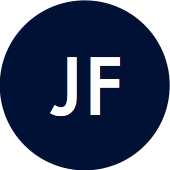
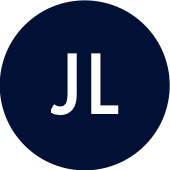
Update some copy for being a lumarie

Changed region(s): [[0.5294, 0.2941, 0.7353, 0.6765], [0.3824, 0.2941, 0.4706, 0.6176], [0.2941, 0.6176, 0.4412, 0.7059]]

diff --git a/jf_landing_page/about/index.html b/jf_landing_page/about/index.html
@@ -1,11 +1,11 @@
 <!doctype html>
 <html>
   <head>
-		
+
 	  <!-- Latest compiled and minified JavaScript -->
 	  <script src="https://ajax.googleapis.com/ajax/libs/jquery/2.1.3/jquery.min.js"></script>
 	  <script src="https://maxcdn.bootstrapcdn.com/bootstrap/3.3.2/js/bootstrap.min.js"></script>
-	  		
+
 	  <!-- Latest compiled and minified CSS -->
 	  <link rel="stylesheet" href="https://maxcdn.bootstrapcdn.com/bootstrap/3.3.2/css/bootstrap.min.css">
 
@@ -14,21 +14,21 @@
 
 
 	  <link href='http://fonts.googleapis.com/css?family=Open+Sans' rel='stylesheet' type='text/css'>
-	  
+
 	  <link rel="shortcut icon" href="../jf_icon.png"/>
-				
+
     <link href='../style.css' rel='stylesheet' type='text/css'>
-	  
+
 	  <meta name="viewport" content="width=device-width, initial-scale=1">
 
-		<title>About | Jesse Furmanek</title>	  
-		
+		<title>About | Jesse Furmanek</title>
+
   </head>
- 
+
   <body>
     <div class="header">
     </div>
-	
+
 
   <div class= "mini-header">
       <div class="container">
@@ -38,37 +38,37 @@
 
   <div class = "main">
 	<div class="container">
-      <div class="row">				
+      <div class="row">
          <div class="col-xs-4" ><p class = "pull-right" id="lil_jf"><a href="http://jessefurmanek.com"><img src="../lil_jf.png"></a></p></div>
          <div class="col-xs-4" ><p id="circle_picture"><img src="../jesse_icon.png"  class="center-block" ></p> </div>
          <div class="col-xs-4"><p class = "pull-left" id="circle_writings"><a href="http://jessefurmanek.com/blog"><img src="../writing_icon.png"  class="center-block" ></a></p></div>
       </div>
     </div>
   </div>
-  
-  
+
+
   <div class= "about-me-content">
       <div class="container">
 	  	<div class ="col-xs-2 col-md-3"></div>
 		<div class ="col-xs-8 col-md-6">
 		 	<p class ="about-me center-block">    My name is Jesse, and I am a product manager, lawyer, and an individual who enjoys programming and learning. <br> <br>Give me a shout <a href="mailto:jesse.furmanek@gmail.com">here</a> or at any of the fine establishments you see below.</p>
 		</div>
-		<div class ="col-xs-2 col-md-3"></div>	
+		<div class ="col-xs-2 col-md-3"></div>
       </div>
   </div>
-  
-  
-  <div class ="social"> 
+
+
+  <div class ="social">
 	  <div class="container">
-		  
-		  <a href="http://instagram.com/jessefurmanek"><img src="../insta_logo.png"  class="center-block" ></a>
-		  <a href = "https://twitter.com/jessefurmanek"><img src="../twitter_logo_blue.png" class="center-block"></a>
+
+		  <a href="http://instagram.com/jesselumarie"><img src="../insta_logo.png"  class="center-block" ></a>
+		  <a href = "https://twitter.com/jesselumarie"><img src="../twitter_logo_blue.png" class="center-block"></a>
 		  <a href="https://github.com/jessefurmanek"> <img src="../github_logo.png"  class="center-block"></a>
 		  <a href="https://www.flickr.com/photos/49440392@N07/"><img src="../flickr_logo.png"  class="center-block"></a>
-		  <a href="https://www.linkedin.com/in/jessefurmanek"><img src="../linkedin_logo.png"  class="center-block"></a>
+		  <a href="https://www.linkedin.com/in/jesselumarie"><img src="../linkedin_logo.png"  class="center-block"></a>
 	  </div>
    </div>
-	 
+
 	 </div>
   </div>
 

diff --git a/jf_landing_page/index.html b/jf_landing_page/index.html
@@ -10,56 +10,56 @@
 
 	  <!-- Optional theme -->
 	  <link rel="stylesheet" href="https://maxcdn.bootstrapcdn.com/bootstrap/3.3.2/css/bootstrap-theme.min.css">
-	  
+
 	  <link href='http://fonts.googleapis.com/css?family=Vollkorn' rel='stylesheet' type='text/css'>
 	  <link href='http://fonts.googleapis.com/css?family=Open+Sans' rel='stylesheet' type='text/css'>
 
 	  <meta name="viewport" content="width=device-width, initial-scale=1">
-	  
+
 	  <link rel="shortcut icon" href="jf_icon.png"/>
-	  
+
     <link href='style.css' rel='stylesheet' type='text/css'>
-	  
-	  <title>Jesse Furmanek</title>
+
+	  <title>Jesse Lumarie</title>
   </head>
- 
+
   <body>
     <div class="header">
     </div>
-	
-	
+
+
   <div class= "mini-header">
       <div class="container">
- 		 <h2>This is the website of Jesse Furmanek.</h2>
+ 		 <h2>This is the website of Jesse Lumarie.</h2>
       </div>
   </div>
 
   <div class = "main">
 	<div class="container">
-      <div class="row"> 
-         <div class="col-xs-4" ><p class = "pull-right center-block" id="circle_pro"><a href="http://jessefurmanek.com/about"><img src="about_icon.png"></a></p></div>
+      <div class="row">
+         <div class="col-xs-4" ><p class = "pull-right center-block" id="circle_pro"><a href="http://jesselumarie.com/about"><img src="about_icon.png"></a></p></div>
          <div class="col-xs-4" ><p class = "center-block" id="circle_jf"><img src="jf_icon.png"></p></div>
-         <div class="col-xs-4"><p class = "pull-left center-block" id="circle_writings"><a href="http://jessefurmanek.com/blog"><img src="writing_icon.png"></a></p></div>
+         <div class="col-xs-4"><p class = "pull-left center-block" id="circle_writings"><a href="http://jesselumarie.com/blog"><img src="writing_icon.png"></a></p></div>
       </div>
     </div>
   </div>
-  
-  
+
+
   <div class= "places-text">
       <div class="container">
  		 <h3>Here are some other places you can find me:</h3>
       </div>
   </div>
-  
-  
-  <div class ="social"> 
+
+
+  <div class ="social">
 	  <div class="container">
-		  
-		  <a href="http://instagram.com/jessefurmanek"><img src="insta_logo.png"  class="center-block" ></a>
-		  <a href = "https://twitter.com/jessefurmanek"><img src="twitter_logo_blue.png" class="center-block"></a>
+
+		  <a href="http://instagram.com/jesselumarie"><img src="insta_logo.png"  class="center-block" ></a>
+		  <a href = "https://twitter.com/jesselumarie"><img src="twitter_logo_blue.png" class="center-block"></a>
 		  <a href="https://github.com/jessefurmanek"> <img src="github_logo.png"  class="center-block"></a>
 		  <a href="https://www.flickr.com/photos/49440392@N07/"><img src="flickr_logo.png"  class="center-block"></a>
-		  <a href="https://www.linkedin.com/in/jessefurmanek"><img src="linkedin_logo.png"  class="center-block"></a>
+		  <a href="https://www.linkedin.com/in/jesselumarie"><img src="linkedin_logo.png"  class="center-block"></a>
 	  </div>
        </div>
 	 </div>
